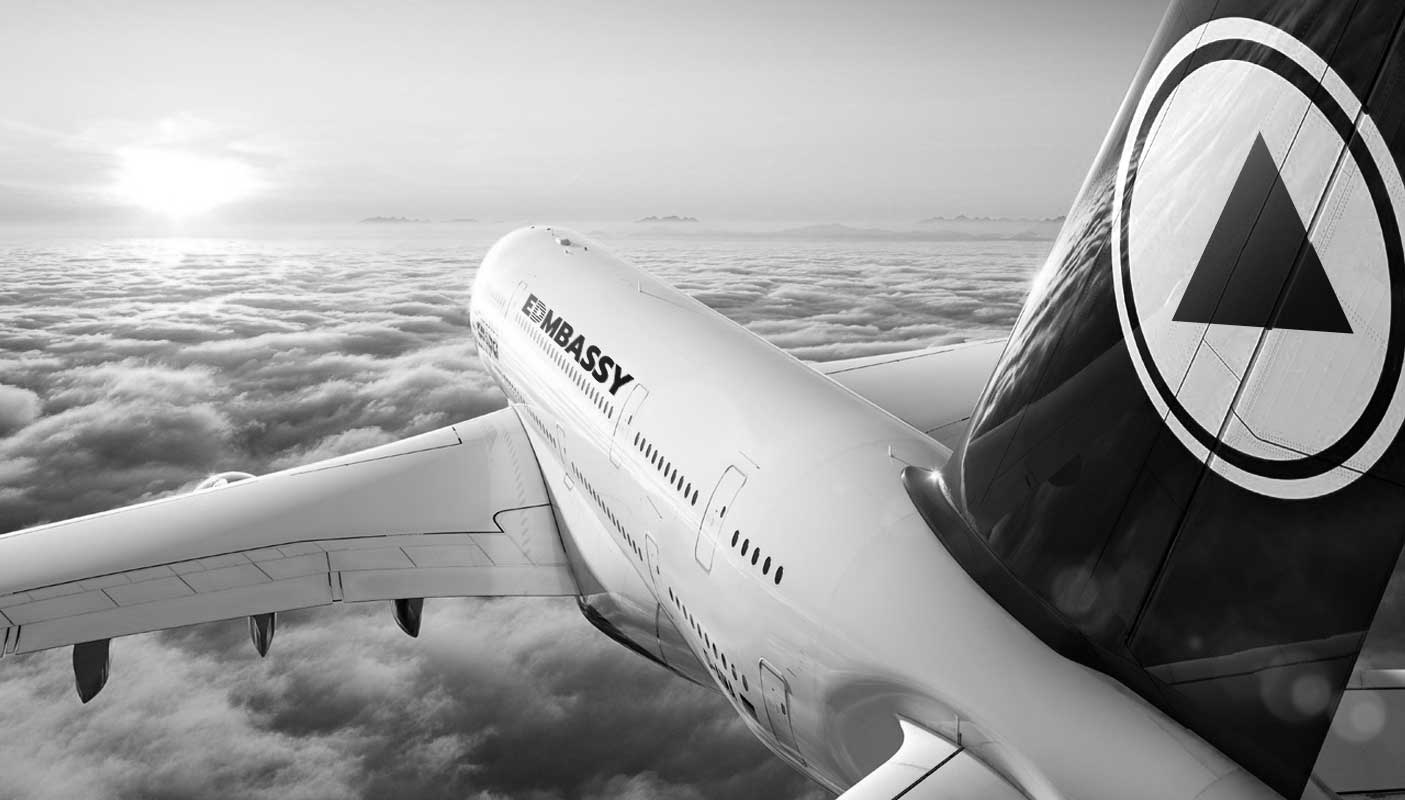
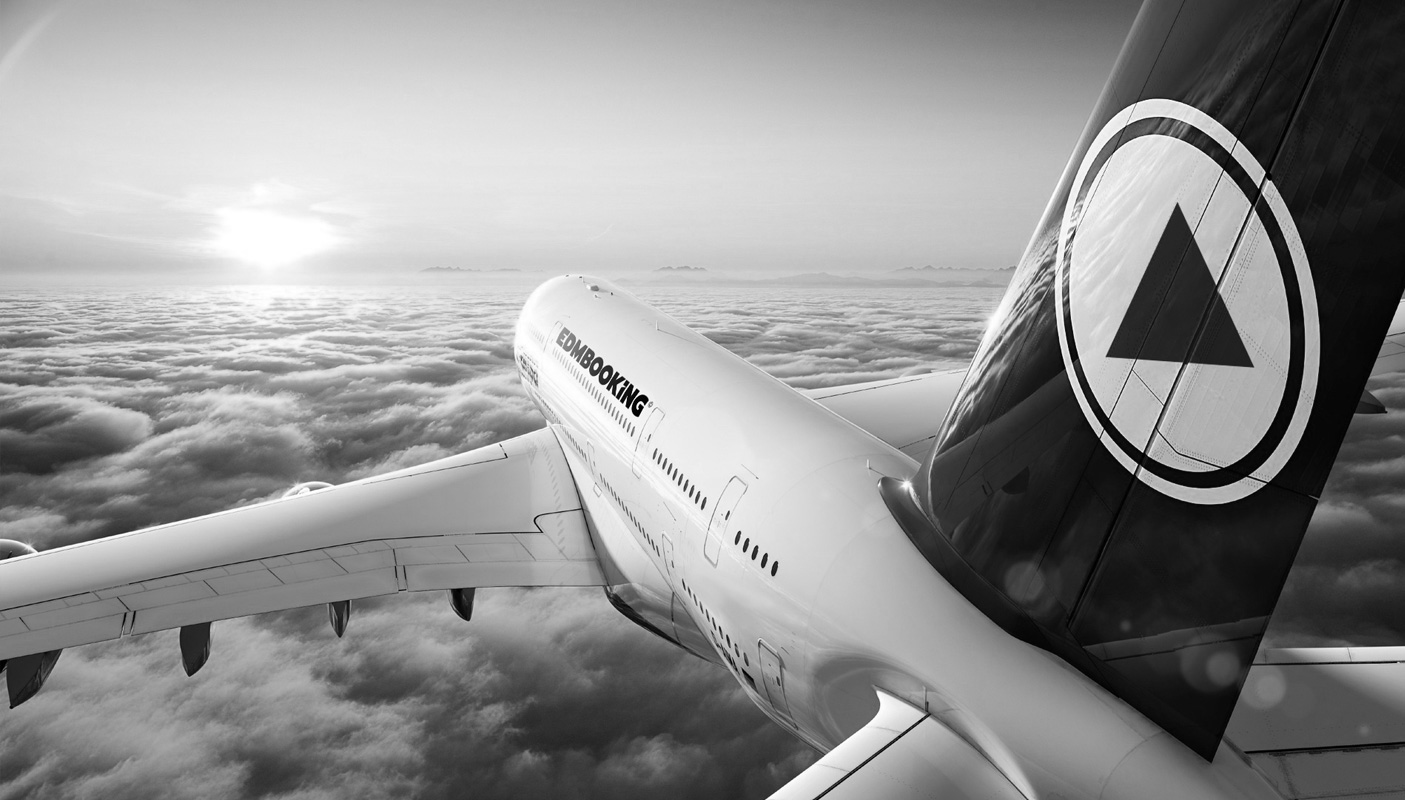
Updates

diff --git a/address.html b/address.html
@@ -482,7 +482,7 @@ Already booked with EDMBASSY? Go to our login page to view your booking.</p>
 			<div class="col-md-4 col-lg-3 footer-col">
 				<h4>Info</h4>
 				<ul>
-					<li><a href="whybook.html">Why EDMBOOKING</a></li>
+					<li><a href="whybook.html">Why edmbooking</a></li>
 					<li><a href="faq.html">Tell me more</a></li>
 					<li><a href="login.html">Login</a></li>
 					<li><a href="page.html">Our story</a></li>

diff --git a/animations.html b/animations.html
@@ -261,7 +261,7 @@ Already booked with EDMBASSY? Go to our login page to view your booking.</p>
 			<div class="col-md-4 col-lg-3 footer-col">
 				<h4>Info</h4>
 				<ul>
-					<li><a href="whybook.html">Why EDMBOOKING</a></li>
+					<li><a href="whybook.html">Why edmbooking</a></li>
 					<li><a href="faq.html">Tell me more</a></li>
 					<li><a href="login.html">Login</a></li>
 					<li><a href="page.html">Our story</a></li>

diff --git a/buttons.html b/buttons.html
@@ -283,7 +283,7 @@ Already booked with EDMBASSY? Go to our login page to view your booking.</p>
 			<div class="col-md-4 col-lg-3 footer-col">
 				<h4>Info</h4>
 				<ul>
-					<li><a href="whybook.html">Why EDMBOOKING</a></li>
+					<li><a href="whybook.html">Why edmbooking</a></li>
 					<li><a href="faq.html">Tell me more</a></li>
 					<li><a href="login.html">Login</a></li>
 					<li><a href="page.html">Our story</a></li>

diff --git a/camping-info.html b/camping-info.html
@@ -331,7 +331,7 @@ Already booked with EDMBASSY? Go to our login page to view your booking.</p>
 			<div class="col-md-4 col-lg-3 footer-col">
 				<h4>Info</h4>
 				<ul>
-					<li><a href="whybook.html">Why EDMBOOKING</a></li>
+					<li><a href="whybook.html">Why edmbooking</a></li>
 					<li><a href="faq.html">Tell me more</a></li>
 					<li><a href="login.html">Login</a></li>
 					<li><a href="page.html">Our story</a></li>

diff --git a/dates.html b/dates.html
@@ -266,7 +266,7 @@ Already booked with EDMBASSY? Go to our login page to view your booking.</p>
 			<div class="col-md-4 col-lg-3 footer-col">
 				<h4>Info</h4>
 				<ul>
-					<li><a href="whybook.html">Why EDMBOOKING</a></li>
+					<li><a href="whybook.html">Why edmbooking</a></li>
 					<li><a href="faq.html">Tell me more</a></li>
 					<li><a href="login.html">Login</a></li>
 					<li><a href="page.html">Our story</a></li>

diff --git a/detail-camping.html b/detail-camping.html
@@ -649,7 +649,7 @@ Already booked with EDMBASSY? Go to our login page to view your booking.</p>
 			<div class="col-md-4 col-lg-3 footer-col">
 				<h4>Info</h4>
 				<ul>
-					<li><a href="whybook.html">Why EDMBOOKING</a></li>
+					<li><a href="whybook.html">Why edmbooking</a></li>
 					<li><a href="faq.html">Tell me more</a></li>
 					<li><a href="login.html">Login</a></li>
 					<li><a href="page.html">Our story</a></li>

diff --git a/detail-hotel-ticket.html b/detail-hotel-ticket.html
@@ -720,7 +720,7 @@ Already booked with EDMBASSY? Go to our login page to view your booking.</p>
 			<div class="col-md-4 col-lg-3 footer-col">
 				<h4>Info</h4>
 				<ul>
-					<li><a href="whybook.html">Why EDMBOOKING</a></li>
+					<li><a href="whybook.html">Why edmbooking</a></li>
 					<li><a href="faq.html">Tell me more</a></li>
 					<li><a href="login.html">Login</a></li>
 					<li><a href="page.html">Our story</a></li>

diff --git a/detail.html b/detail.html
@@ -659,7 +659,7 @@ Already booked with EDMBASSY? Go to our login page to view your booking.</p>
 			<div class="col-md-4 col-lg-3 footer-col">
 				<h4>Info</h4>
 				<ul>
-					<li><a href="whybook.html">Why EDMBOOKING</a></li>
+					<li><a href="whybook.html">Why edmbooking</a></li>
 					<li><a href="faq.html">Tell me more</a></li>
 					<li><a href="login.html">Login</a></li>
 					<li><a href="page.html">Our story</a></li>

diff --git a/event-info.html b/event-info.html
@@ -298,7 +298,7 @@ Already booked with EDMBASSY? Go to our login page to view your booking.</p>
 			<div class="col-md-4 col-lg-3 footer-col">
 				<h4>Info</h4>
 				<ul>
-					<li><a href="whybook.html">Why EDMBOOKING</a></li>
+					<li><a href="whybook.html">Why edmbooking</a></li>
 					<li><a href="faq.html">Tell me more</a></li>
 					<li><a href="login.html">Login</a></li>
 					<li><a href="page.html">Our story</a></li>

diff --git a/event-landing.html b/event-landing.html
@@ -366,7 +366,7 @@ Already booked with EDMBASSY? Go to our login page to view your booking.</p>
 			<div class="col-md-4 col-lg-3 footer-col">
 				<h4>Info</h4>
 				<ul>
-					<li><a href="whybook.html">Why EDMBOOKING</a></li>
+					<li><a href="whybook.html">Why edmbooking</a></li>
 					<li><a href="faq.html">Tell me more</a></li>
 					<li><a href="login.html">Login</a></li>
 					<li><a href="page.html">Our story</a></li>

diff --git a/faq.html b/faq.html
@@ -380,7 +380,7 @@ Already booked with EDMBASSY? Go to our login page to view your booking.</p>
 			<div class="col-md-4 col-lg-3 footer-col">
 				<h4>Info</h4>
 				<ul>
-					<li><a href="whybook.html">Why EDMBOOKING</a></li>
+					<li><a href="whybook.html">Why edmbooking</a></li>
 					<li><a href="faq.html">Tell me more</a></li>
 					<li><a href="login.html">Login</a></li>
 					<li><a href="page.html">Our story</a></li>

diff --git a/googlemaps.html b/googlemaps.html
@@ -483,7 +483,7 @@ Already booked with EDMBASSY? Go to our login page to view your booking.</p>
 			<div class="col-md-4 col-lg-3 footer-col">
 				<h4>Info</h4>
 				<ul>
-					<li><a href="whybook.html">Why EDMBOOKING</a></li>
+					<li><a href="whybook.html">Why edmbooking</a></li>
 					<li><a href="faq.html">Tell me more</a></li>
 					<li><a href="login.html">Login</a></li>
 					<li><a href="page.html">Our story</a></li>
